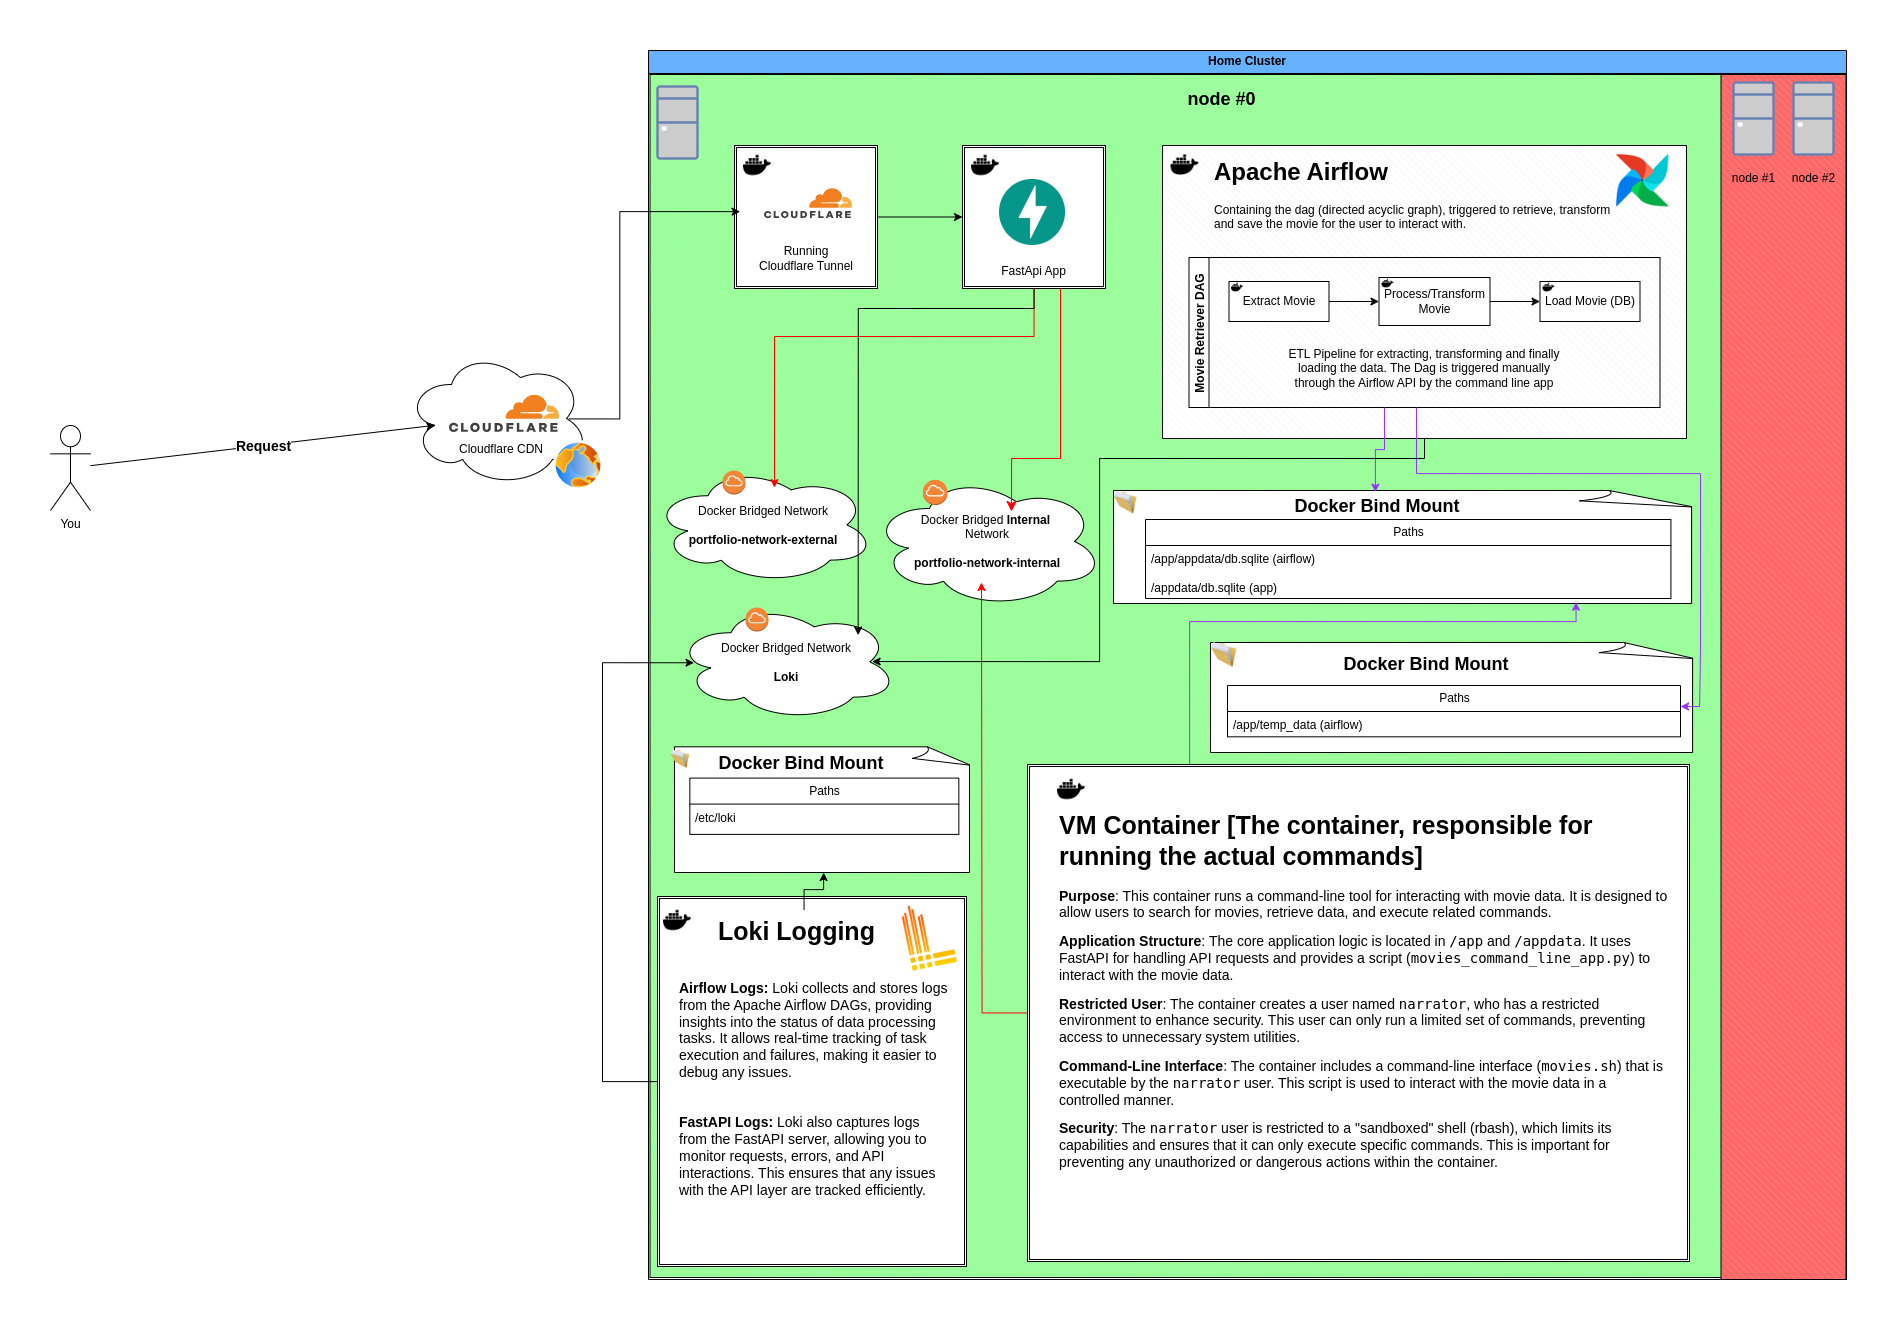
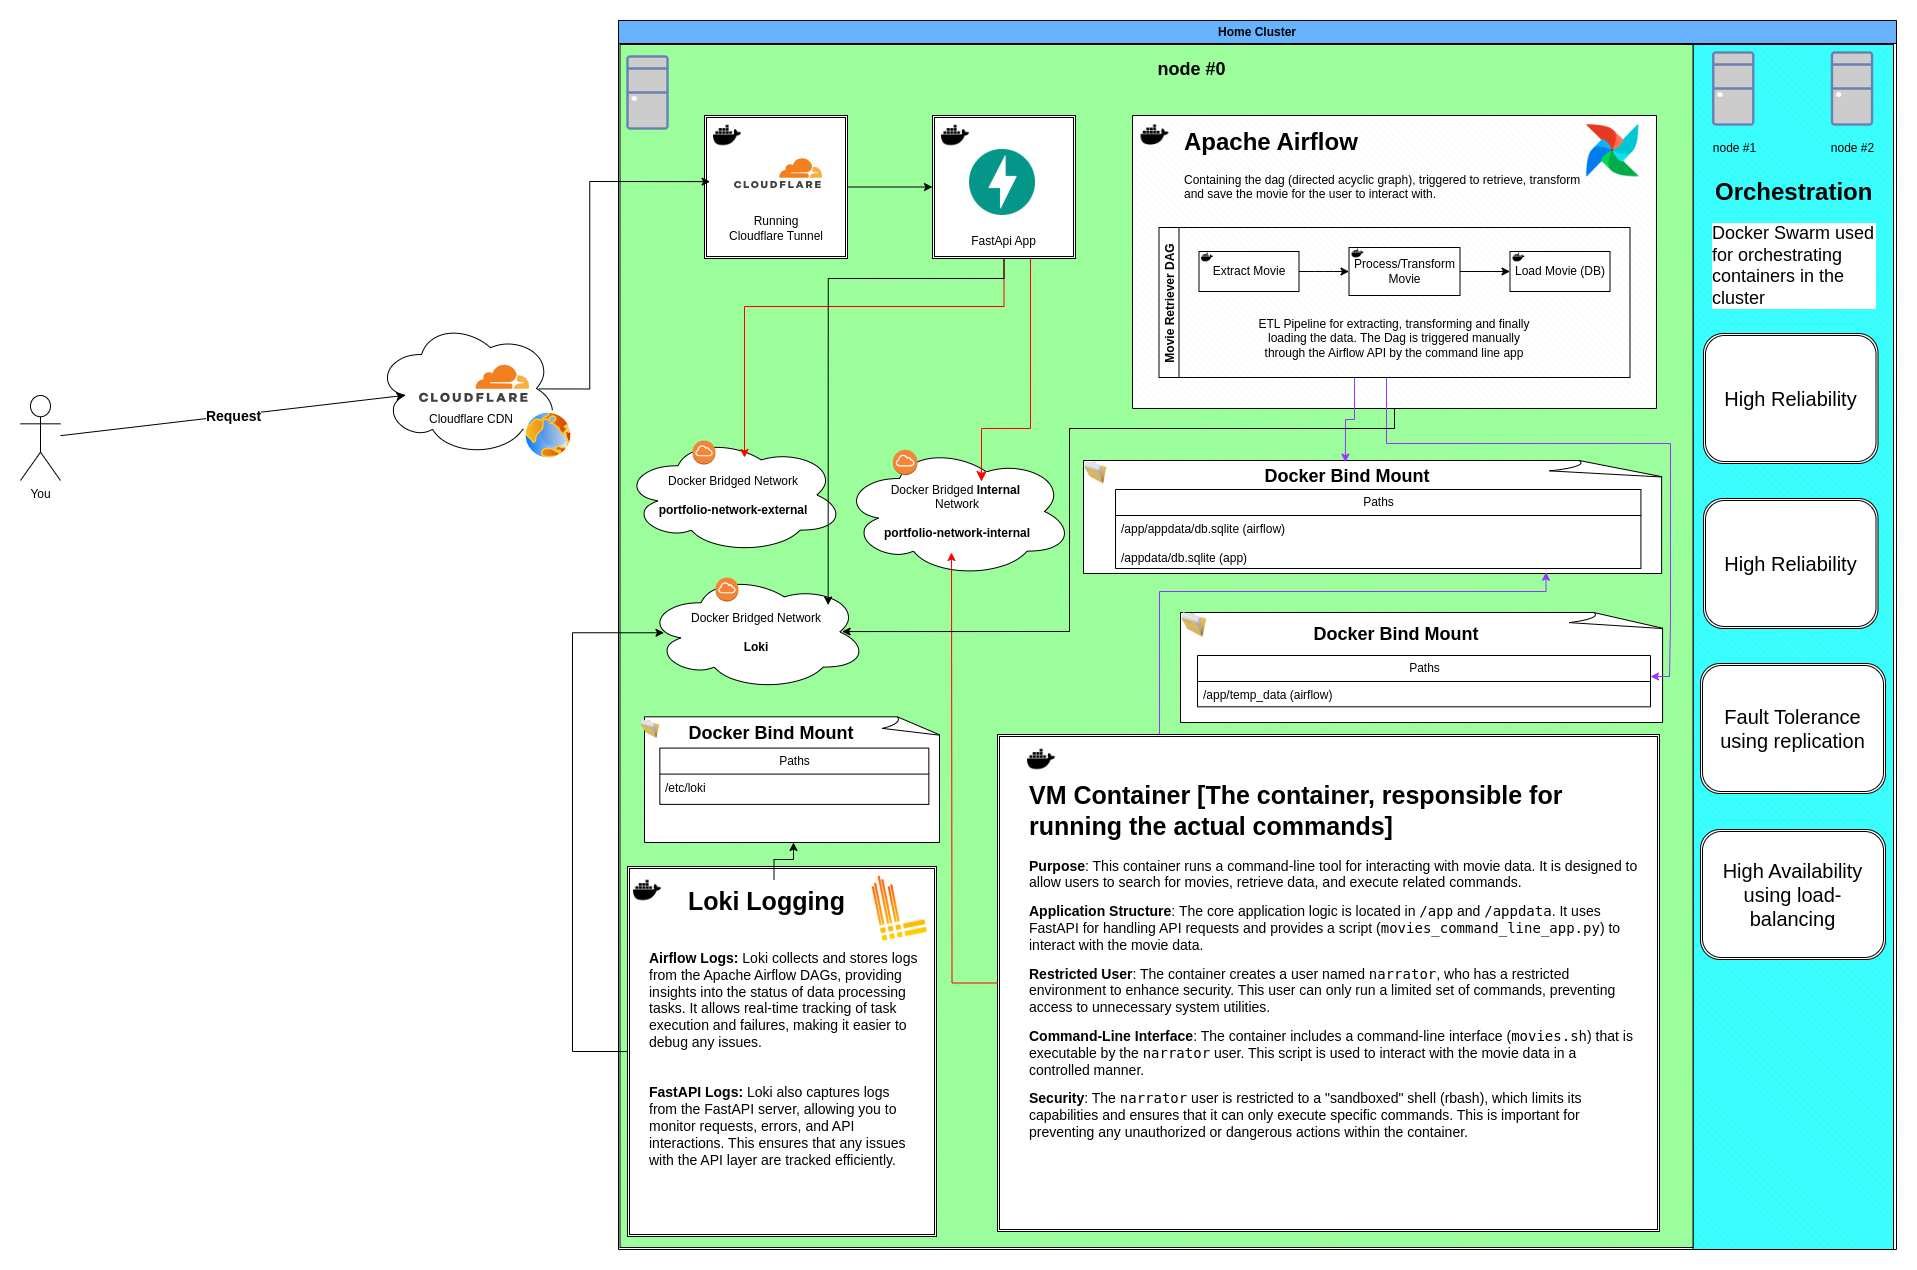
bug fixes

diff --git a/portfolio/web/index.html b/portfolio/web/index.html
@@ -545,7 +545,7 @@
 
                 <div class="col-lg-4 col-md-6 mb-4 portfolio-item dataEngineering python infrastructure">
                     <div class="position-relative overflow-hidden mb-2">
-                        <a href="https://github.com/IyadElwy/apps/tree/main/portfolio">
+                        <a href="https://github.com/IyadElwy/apps/blob/deploy_with_swarm/portfolio/README.md">
                             <img class="img-fluid rounded w-100" src="img/portfolio.png" alt="">
                             <h5 class="portfolio-title text-center mt-2">Interactive Portfolio Website with built-in
                                 Live Terminal</h5>

diff --git a/portfolio/vm-container/movies_command_line_app.py b/portfolio/vm-container/movies_command_line_app.py
@@ -9,7 +9,7 @@ from requests.exceptions import HTTPError
 parser = argparse.ArgumentParser(
     prog="Movie Command-Line Utility",
     description="""Using this tool you will be able to retrieve data about movies.\n\n""",
-    epilog='Check out the "Portfolio Projects" section to access the project\'sGitHub Page.',
+    epilog='Check out the "Portfolio Projects" section to access the project\'s GitHub Page.',
 )
 
 

diff --git a/portfolio/README.md b/portfolio/README.md
@@ -76,4 +76,42 @@ FastAPI Logs: Loki also captures logs from the FastAPI server, allowing you to m
 
 
 
-`At the moment the project runs on one machine with the potential for horizontal scaling using container orchestrators like docker swarm or K8s and reverse proxies like ngnix for load balancing.`
+## Docker Swarm Integration:
+
+Docker Swarm orchestrates the deployment, scaling, and management of services within a cluster. The introduction of Swarm brings several improvements to the system, including:
+
+### Service Scaling and High Availability:
+
+Services like the FastAPI application and Grafana are now deployed with Swarm, enabling easy horizontal scaling. For example, increasing replicas of the FastAPI service can help handle more traffic, and Swarm automatically distributes the load. Even the airflow dags run on the swarm cluster which ensures that the dags run on servers which have resources to handle the operations fast and efficient.
+
+Swarm ensures that services are always available, automatically replacing any failed containers, which improves overall system reliability and uptime.
+Service Dependencies:
+
+### Load Balancing with Swarm:
+
+Swarm's built-in load balancing automatically distributes incoming traffic across replicas of services like FastAPI and Grafana, optimizing resource usage and improving performance.
+
+
+### Automatic Service Discovery:
+
+Services deployed within Swarm can discover and communicate with each other without the need for manual IP management. For example, Grafana automatically connects to Loki without requiring explicit IP addresses, as Swarm handles the internal DNS resolution.
+Rolling Updates:
+
+### Swarm-Specific Networking Enhancements:
+Swarm Overlay Networks:
+Swarm uses overlay networks to facilitate communication between containers running on different nodes within the Swarm cluster. This allows for improved scalability and isolation of services.
+The internal network (portfolio-network-internal) in Swarm now spans across multiple nodes, ensuring seamless communication even as the system scales.
+
+
+### Security and Resource Constraints:
+
+Swarm allows setting CPU and memory limits per service (e.g., Grafana, Loki), ensuring that no service overconsumes resources, maintaining system stability.
+You can now deploy services with specific resource constraints, preventing resource contention between services.
+Service Replication and Fault Tolerance:
+
+Swarm automatically ensures that the desired number of replicas for each service is maintained. If a container fails or a node goes down, Swarm reschedules tasks on other available nodes, ensuring high availability and fault tolerance.
+
+### Health Checks and Restart Policies:
+Service Health Checks:
+Docker Swarm supports health checks, and this is critical in the current architecture to ensure that services like the api and vm are only running when fully operational.
+
